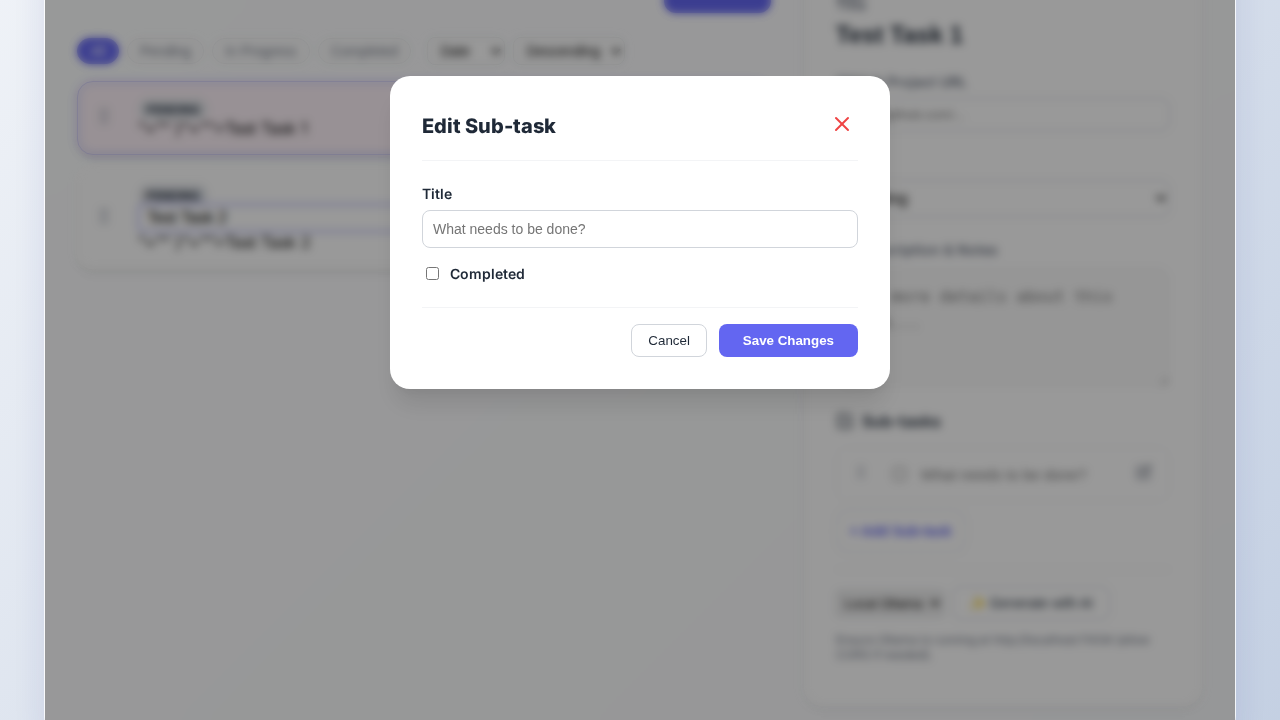
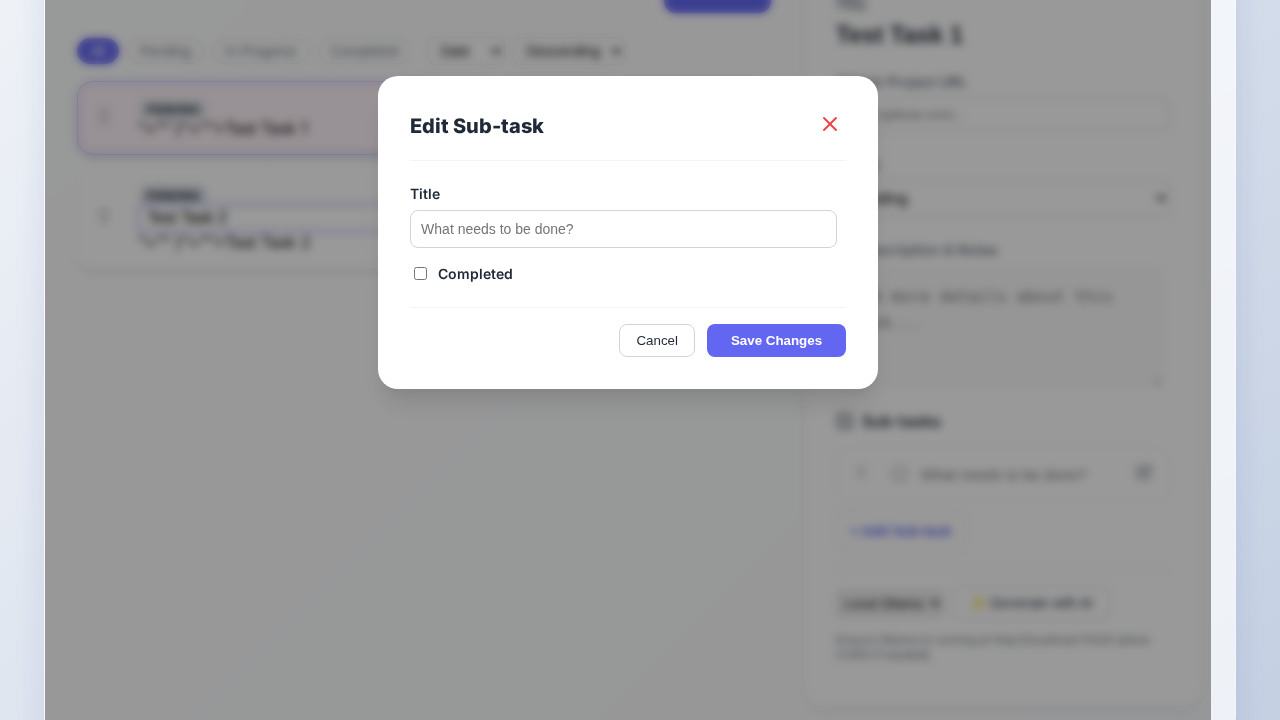
fix: address code review comments
- css/styles.css: removed redundant width declaration
- verification/frontend_verify.py: added bounds check for array access

diff --git a/css/styles.css b/css/styles.css
@@ -26,8 +26,8 @@ body {
 }
 
 #todoApp {
-  width: 100%;
-  max-width: none; width: 98%;
+  width: 98%;
+  max-width: none;
   background: var(--glass-bg);
   backdrop-filter: blur(10px);
   -webkit-backdrop-filter: blur(10px);
@@ -72,7 +72,7 @@ body {
 }
 
 textarea {
-  width: 100%;
+  width: 98%;
   padding: 1rem;
   border-radius: 12px;
   border: 1px solid #d1d5db;
@@ -219,7 +219,7 @@ button.add-btn:hover {
   border: none;
   padding: 0;
   background: transparent;
-  width: 100%;
+  width: 98%;
 }
 
 .title-input:focus {
@@ -342,7 +342,7 @@ textarea.desc:focus {
   position: fixed;
   top: 0;
   left: 0;
-  width: 100%;
+  width: 98%;
   height: 100%;
   background: rgba(0, 0, 0, 0.4);
   backdrop-filter: blur(4px);
@@ -410,7 +410,7 @@ textarea.desc:focus {
   border-radius: 8px;
   border: 1px solid #d1d5db;
   font-size: 0.875rem;
-  width: 100%;
+  width: 98%;
 }
 
 .input-group input:focus {
@@ -449,7 +449,7 @@ textarea.desc:focus {
 }
 
 .main-layout.maximized .detail-section {
-  width: 100%;
+  width: 98%;
 }
 
 /* Todo Actions & Edit */
@@ -460,7 +460,7 @@ textarea.desc:focus {
 }
 
 .edit-todo-input {
-  width: 100%;
+  width: 98%;
   padding: 0.25rem 0.5rem;
   font-size: 1rem;
   font-weight: 500;

diff --git a/verification/frontend_verify.py b/verification/frontend_verify.py
@@ -30,7 +30,7 @@ def run():
 
         # 6. Click Edit Button and check input
         buttons = page.query_selector_all(".todo-actions .remove-btn[title='Edit Title']")
-        if buttons:
+        if len(buttons) > 1:
             buttons[1].click() # Edit the second task (which is first in list if pushed? No, push appends. So second task is index 1.)
             # Wait, index 1 is second task. lists.push appends.
             # But draggable iterates lists.
